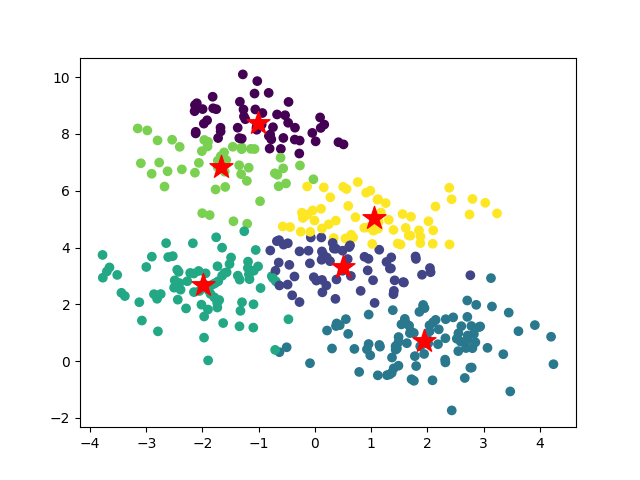
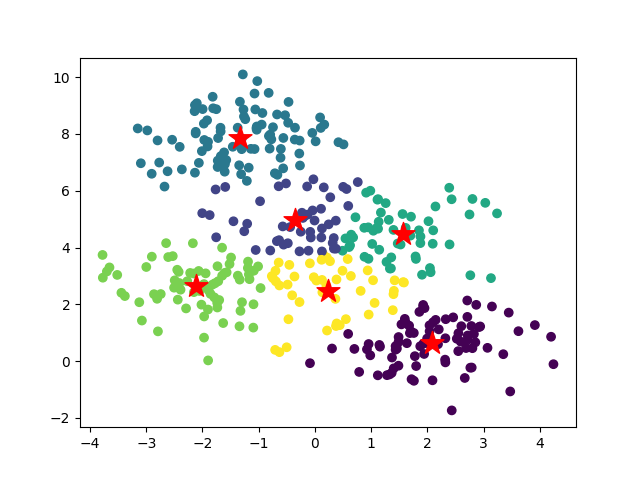
kmedoids

diff --git a/run_kmc.py b/run_kmc.py
@@ -2,6 +2,9 @@ import pandas
 import matplotlib.pyplot as pyplot
 from sklearn.cluster import KMeans
 
+from sklearn_extra.cluster import KMedoids
+
+
 from sklearn.metrics import silhouette_score 
 
 dataset = pandas.read_csv("dataset.csv")
@@ -29,11 +32,32 @@ def run_kmeans(n, dataset):
 
 silhouette_score_list = [run_kmeans(i, dataset) for i in [2,3,4,5,6,7,8]]
 
-print(silhouette_score_list)
-
 pyplot.scatter([2,3,4,5,6,7,8], silhouette_score_list)
 pyplot.savefig("silhouette_score_kmeans.png")
 pyplot.close()
+
+
+
+
+
+
+def run_kmedoids(n, dataset):
+  machine = KMedoids(n_clusters=n)
+  machine.fit(dataset)
+  results = machine.predict(dataset)
+  centroids = machine.cluster_centers_
+  pyplot.scatter(dataset[:,0],dataset[:,1], c=results)
+  pyplot.scatter(centroids[:,0], centroids[:, 1], c="red", marker="*", s=300)
+  pyplot.savefig("scatterplot_kmedoids_" + str(n) + ".png")
+  pyplot.close()
+  return silhouette_score(dataset, results, metric="euclidean")
+
+silhouette_score_list = [run_kmedoids(i, dataset) for i in [2,3,4,5,6,7,8]]
+
+pyplot.scatter([2,3,4,5,6,7,8], silhouette_score_list)
+pyplot.savefig("silhouette_score_kmedoids.png")
+pyplot.close()
+
 
 
 
